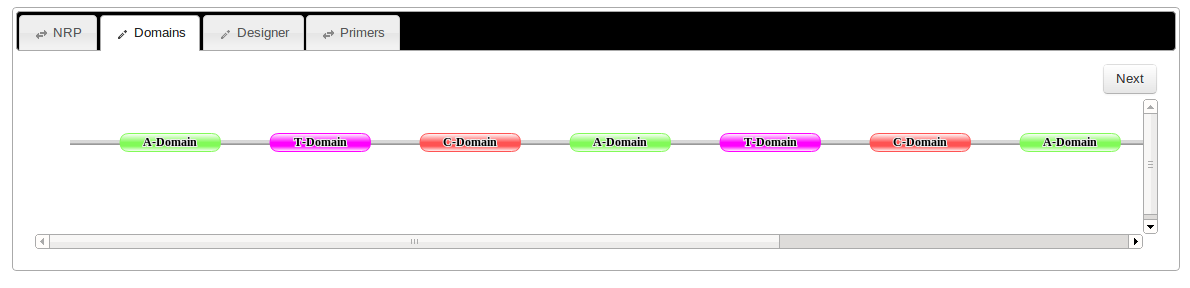
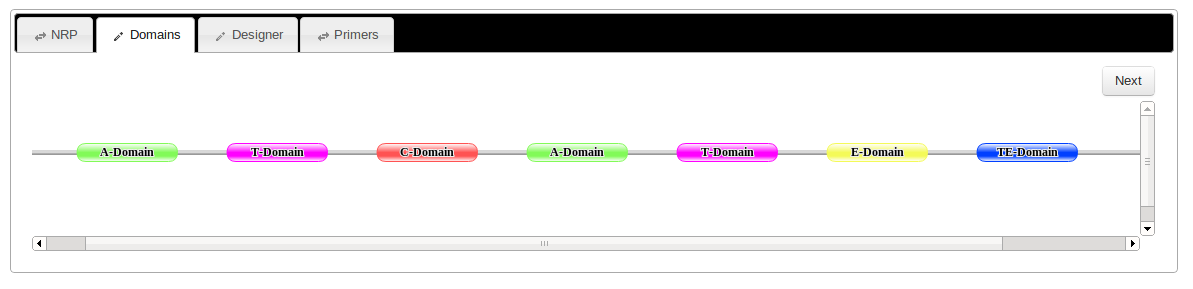
fix documentation, add new sections

Changed region(s): [[0.0, 0.2188, 0.995, 0.875], [0.0, 0.0, 0.995, 0.1875], [0.0, 0.9375, 0.995, 0.9688]]

diff --git a/Django/DjangoNrps/templates/documentation/documentation.html b/Django/DjangoNrps/templates/documentation/documentation.html
@@ -99,15 +99,11 @@
                 <p> The input basically only consists of a sequence of monomers (amino acids) which should make up the final non-ribosomal peptide (NRP). This is achieved with the user-friendly interface shown below: </p>
                 <img src={% static "images/documentation/screenshot1.png" %} /></br>
 
-                <p>The NRPSDesigner makes it very easy to extend the database with novel NRPS genes and every user can do so (see below). Those genes and domains will also be used in the NRPSDesigner algorithm, if the above button has not been pressed. On the other hand, if it has been selected, then only domains curated by the authors, or other scientists with NRPS expertise (curators), will be utilized. In the next panel the actual the actual sequence of NRP monomers can be stepwise selected. If a particular monomer is chosen its configuration can be specified as L or D. Note that the monomer choices available will depend on the specificities of the adenylation and condensation domains available in NRPSDesigner database and the chirality of the preceding monomer, as dictated by the rules of NRP synthesis. When you want to elongate the sequence of monomers by one, you should press the ‘Add monomer’ button. You can click on the chosen monomers and then possibly replace the selection by choosing another one from the dropdown. Finally, the peptide to be assembled is also presented graphically in the panel to the right.</p>
+          <p style="margin-top:20px"> Here, the actual sequence of NRP monomers can be stepwise selected. If a particular monomer is chosen its configuration can be specified as L or D. Note that the monomer choices available will depend on the specificities of the adenylation and condensation domains available in NRPSDesigner database and the chirality of the preceding monomer, as dictated by the rules of NRP synthesis.</p>
 
 
                   <button class="btn" style="margin-left:10px">Add monomer</button>
-                  <p style="margin-top:20px">When you want to elongate the sequence of monomers by one, you should press this button. Note that
-                  you can click on the chosen monomers and then possibly replace the selection by choosing another one
-                  from the dropdown. In addition, L or D-configurations can be selected, which is one of the
-                  characteristics making NRPS so special. Also note that the monomer choices available will depend on the specificities of the adenylation domains available in the NRPSDesigner database and
-                  the chirality of the preceding monomer, as dictated by the rules of NRP synthesis. Finally, the peptide to be assembled is also presented graphically in the panel to the right.</p>
+                  <p style="margin-top:20px"> When you want to elongate the sequence of monomers by one, you should press the ‘Add monomer’ button. You can click on the chosen monomers and then possibly replace the selection by choosing another one from the dropdown. Finally, the peptide to be assembled is also presented graphically in the panel to the right.</p>
                    <button class="btn" style="margin-left:10px">Use curated domains only</button></br>
                   <p style="margin-top:20px">The NRPSDesigner makes it very easy to extend the database with novel NRPS genes and every user
                   can do so (see below). Those genes and domains will also be used in the NRPSDesigner algorithm, if the
@@ -126,13 +122,27 @@
                 <h3> Plasmid view </h3>
                 <p> The NRPS domains shown in the previous visualization are encoded on the coding DNA sequences. Thus, as also exemplified in the screenshot below, the next step through the NRPSDesigner wizard leads to the actual DNA sequences and the fragments that have to be assembled. </p>
 
-                <img src={% static "images/documentation/screenshot4.png" %} /></br>
+                <img src={% static "images/documentation/gibthonDomains.png" %} /></br>
 
-                <p> Note that each fragment shown in the plasmid map corresponds to a particular sequence that has to be amplified by PCR from a source organism. For example, the clicked fragment above corresponds to a DNA sequence that has to be amplified from <i> Brevibacillus parabrevis </i> strain atcc 8185/dsm362. Also observe that this fragment codes for more than one domain, namely a condensation, an adenylation and a thiolation domain. n particular, the rules that produce the domain score, which is integrated in Dijkstra's algorithm also enforce the minimization of the number of fragments that have to be amplified. Thus, less cloning steps will be necessary and less native NRPS domain interfaces will be disrupted. </p>
+                <p> Note that each fragment shown in the plasmid map corresponds to a particular sequence that has to be amplified by PCR from a source organism. For example, the clicked fragment above corresponds to a DNA sequence that has to be amplified from <i> Penicillium chrysogenum </i>. Also observe that this fragment codes for more than one domain, namely a thiolation, an epimerisations and a thioesterase domain. In particular, the rules that produce the domain score, which is integrated in Dijkstra's algorithm also enforce the minimization of the number of fragments that have to be amplified. Thus, less cloning steps will be necessary and less native NRPS domain interfaces will be disrupted. </p>
 
-                <p> The DNA sequences of all those fragments can be downloaded from this panel in both SBOL and GenBank format. They form the basic requirement for further use of the NRPSDesigner output, e.g. with available Bio-CAD tools. </p>
 
-               <p> <span class="label label-important">Important</span> Finally, note that synthetic NRPS were also functional when an adenylation domain, natively found in an elongation module, is used as the initiation domain. The consequence for the NRPSDesigner is that returned NRPS coding sequences may start without a start codon. Thus, in the subsequent steps of design of an appropriate cloning strategy, it is essential to introduce a start codon e.g. by including it in the backbone.</p>
+                <div class="btn-group" style="margin-left:10px">
+                <a class="btn">Download SBOL</a>
+                <a class="btn" >Download GenBank</a>
+               </div>
+
+                <p style="margin-top:20px"> The DNA sequences of all those fragments can be downloaded from this panel in both SBOL and GenBank format with the above buttons. They form the basic requirement for further use of the NRPSDesigner output, e.g. with available Bio-CAD tools. </p>
+
+                <div class="btn-group" style="margin-left:10px">
+                <a class="btn">Create monomer library</a>
+                <a class="btn" >Create boundary library</a>
+            </div>
+
+              <p style="margin-top:20px">
+              Also, it is possible to create combinatorial libraries by starting from this construct, either by shuffling one of the monomers or by changing the boundaries of some of the domains. This functionality, which can be accessed with the above buttons, will be explained in a subsequent section.
+              </p>
+               <p> <span class="label label-important">Important</span> Finally, note that synthetic NRPS are also functional when an adenylation domain, natively found in an elongation module, is used as the initiation domain. The consequence for the NRPSDesigner is that returned NRPS coding sequences may start without a start codon. Thus, in the subsequent steps of design of an appropriate cloning strategy, it is essential to introduce a start codon e.g. by including it in the backbone. Similarly, in order to enable more complicated experimental strategies, for example the addition of a GFP at the end of the synthetic NRPS, no Stop codon is added automatically, thus the stop codon also has to be introduced in the subsequent cloning strategy.</p>
 
 
             <div class="page-header">
@@ -164,7 +174,7 @@
 
                 <p> The behaviour in the previously mentioned step is similar to the one present in the original Gibthon web-server, but with one important difference: Other fragments cannot be entered into the plasmid if they would disrupt the previously returned sequence of NRPS domains. Thus, other DNA sequences can be embedded in the plasmid only after the thioesterase (TE) domain or before the initialization adenylation domain. </p>
 
-                <p> <span class="label label-important">Important</span> As mentioned before, it is very important to ensure the addition of a promoter, a ribosome binding site, a start and a stop codon in the final sequence!</p>
+                <p> <span class="label label-important">Important</span> It is very important to ensure the addition of a promoter, a ribosome binding site, a start and a stop codon in the final sequence!</p>
 
                     <h3> Primers </h3>
                     <p> If you click on the "Primers" tab, you will initially come across the following loading bar: </p>
@@ -224,9 +234,9 @@
            <p style="margin-top:20px"> This table contains the sequence of the primers, their length, as well as their melting temperature (including floppy ends). Thus, the primers can be quickly ordered from commercial providers. </p>
 
            <div class="page-header">
-            <h2> Combinatorial libraries </h2>
+            <h2> Monomer libraries </h2>
             </div>
-            <p> For logged-in users, the NRPSDesigner also provides an experimental feature for high-throughput generation of peptide libraries by starting from a given scaffold (with applications for example in the case of production of novel antibiotics by starting from a known non-ribosomal peptide antibiotic). Thus, the login requirement is enforced, because the procedure can only begin from a succesfully cloned NRPS construct, as designed in one of the previous steps and saved in a user-specific session. In particular, the user can visit his collection of designed NRPs and then click on the downwards-pointing arrow of the button of his peptide of choice and then choose "Create library", as seen in the screenshot below.</p>
+            <p>The NRPSDesigner also provides an experimental feature for high-throughput generation of peptide libraries by starting from a given scaffold (with applications for example in the case of production of novel antibiotics by starting from a known non-ribosomal peptide antibiotic). This functionality can be accessed, from the Designer tab of the main construct, as shown previously. Logged-in users can also access this functionality by visiting their collection of designed NRPs and then clicking on the downwards-pointing arrow of their peptide of choice and then choosing "Create monomer library", as seen in the screenshot below.</p>
 
 
 
@@ -237,6 +247,17 @@
             <img src={% static "images/documentation/screenshot2.png" %} /></br>
 
             <p> The monomer position to be exchanged can be chosen by clicking on the corresponding <i class="icon-ok"></i> or <i class="icon-plus"></i> button. Choosing the <i class="icon-ok"></i> option leads to the shuffling of that particular position with all monomers of the database. On the other hand, by repeated clicking of the <i class="icon-plus"></i> button, a manual selection of monomers to be used for the exchange can be accomplished. Once preferences have been set, the appropriate constructs are designed by clicking on the "Design library" button. Note that depending on the number of monomers, this procedure could take a long time. Once the calculation is ready, a downloadable output with SBOL/GenBank files, as well as primers, similar to the one described for the scaffold construct, is returned. </p>
+
+
+
+           <div class="page-header">
+            <h2> Boundary libraries </h2>
+            </div>
+
+            <p> Similarly to the monomer library functionality, a boundary library functionality exists, in which the user can modify the boundaries of the domains included in the original construct. For each domain, the protein sequence of the whole synthetase which natively codes for it, can be shown. This makes it easy to choose different boundaries for a particular domain, as exemplified in the screenshot of this functionality below: </p>
+
+           <img src={% static "images/documentation/boundaryLibrary.png" %} /></br>
+
 
             <div class="page-header">
             <h2> Extending the database </h2>
@@ -262,6 +283,14 @@
              </ul>
 
              <p> Pressing on the "Save cds and domains!" button results in the storage of all the previously entered and predicted information to the NRPSDesigner database. </p>
+
+             <div class="page-header">
+            <h2> Submit experimental data </h2>
+            </div>
+
+<p> In this panel (see screenshot below) you can report the result of a successful NRPS assembly. If a construct has worked experimentally the domain borders of the respective database entries can be updated accordingly. First, you have to select two neighboring domains from your construct. Different filtering options help you to find the correct domains quickly in the database. Subsequently the corresponding coding sequence will be displayed. In green you can find the current domain length and borders. If your experimentally tested domain borders differ you can enter your result into the respective input fields e.g. by clicking on the corresponding base pair in the sequence shown. Finally, you can specify if your domain can be found also in external databases, as well as references validating this particular domain combination. </p> 
+             <img src={% static "images/documentation/expData.png" %} /></br>
+
 
              <div class="page-header">
              <h2> Privacy </h2>
